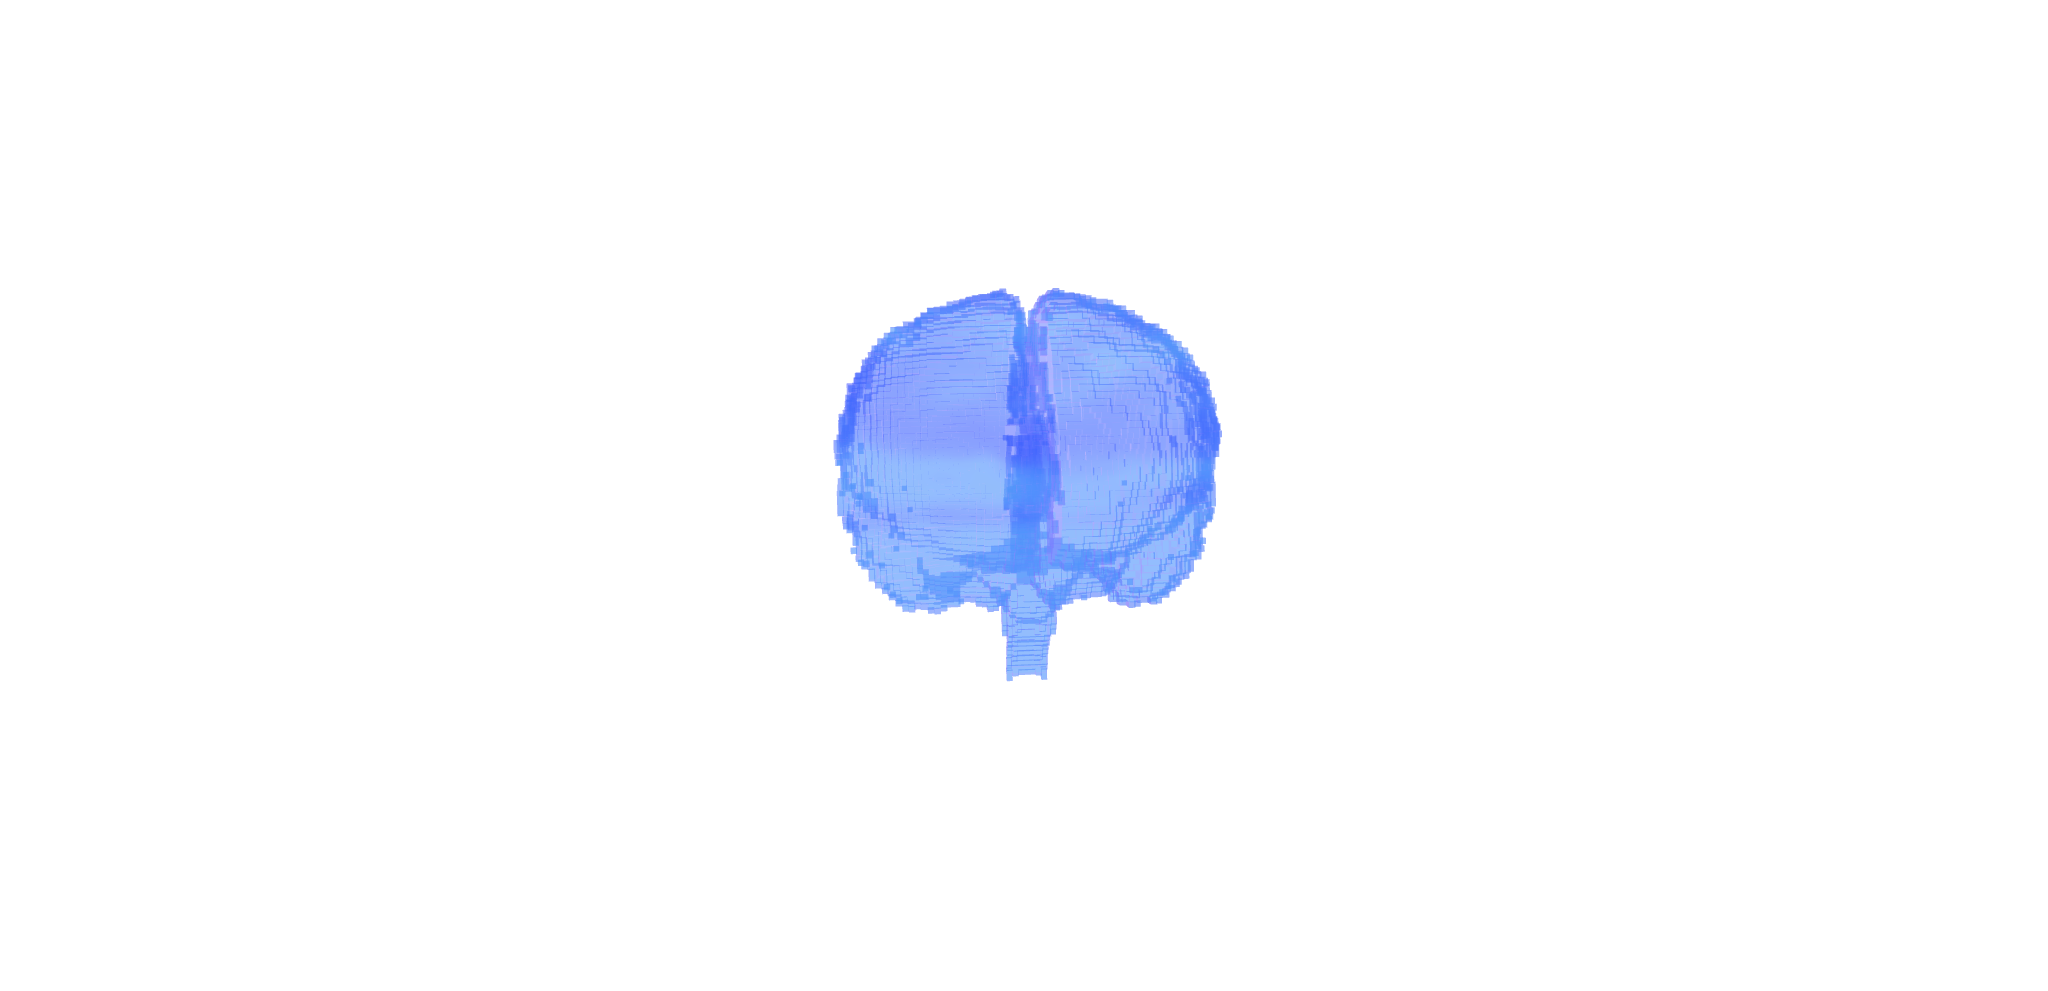
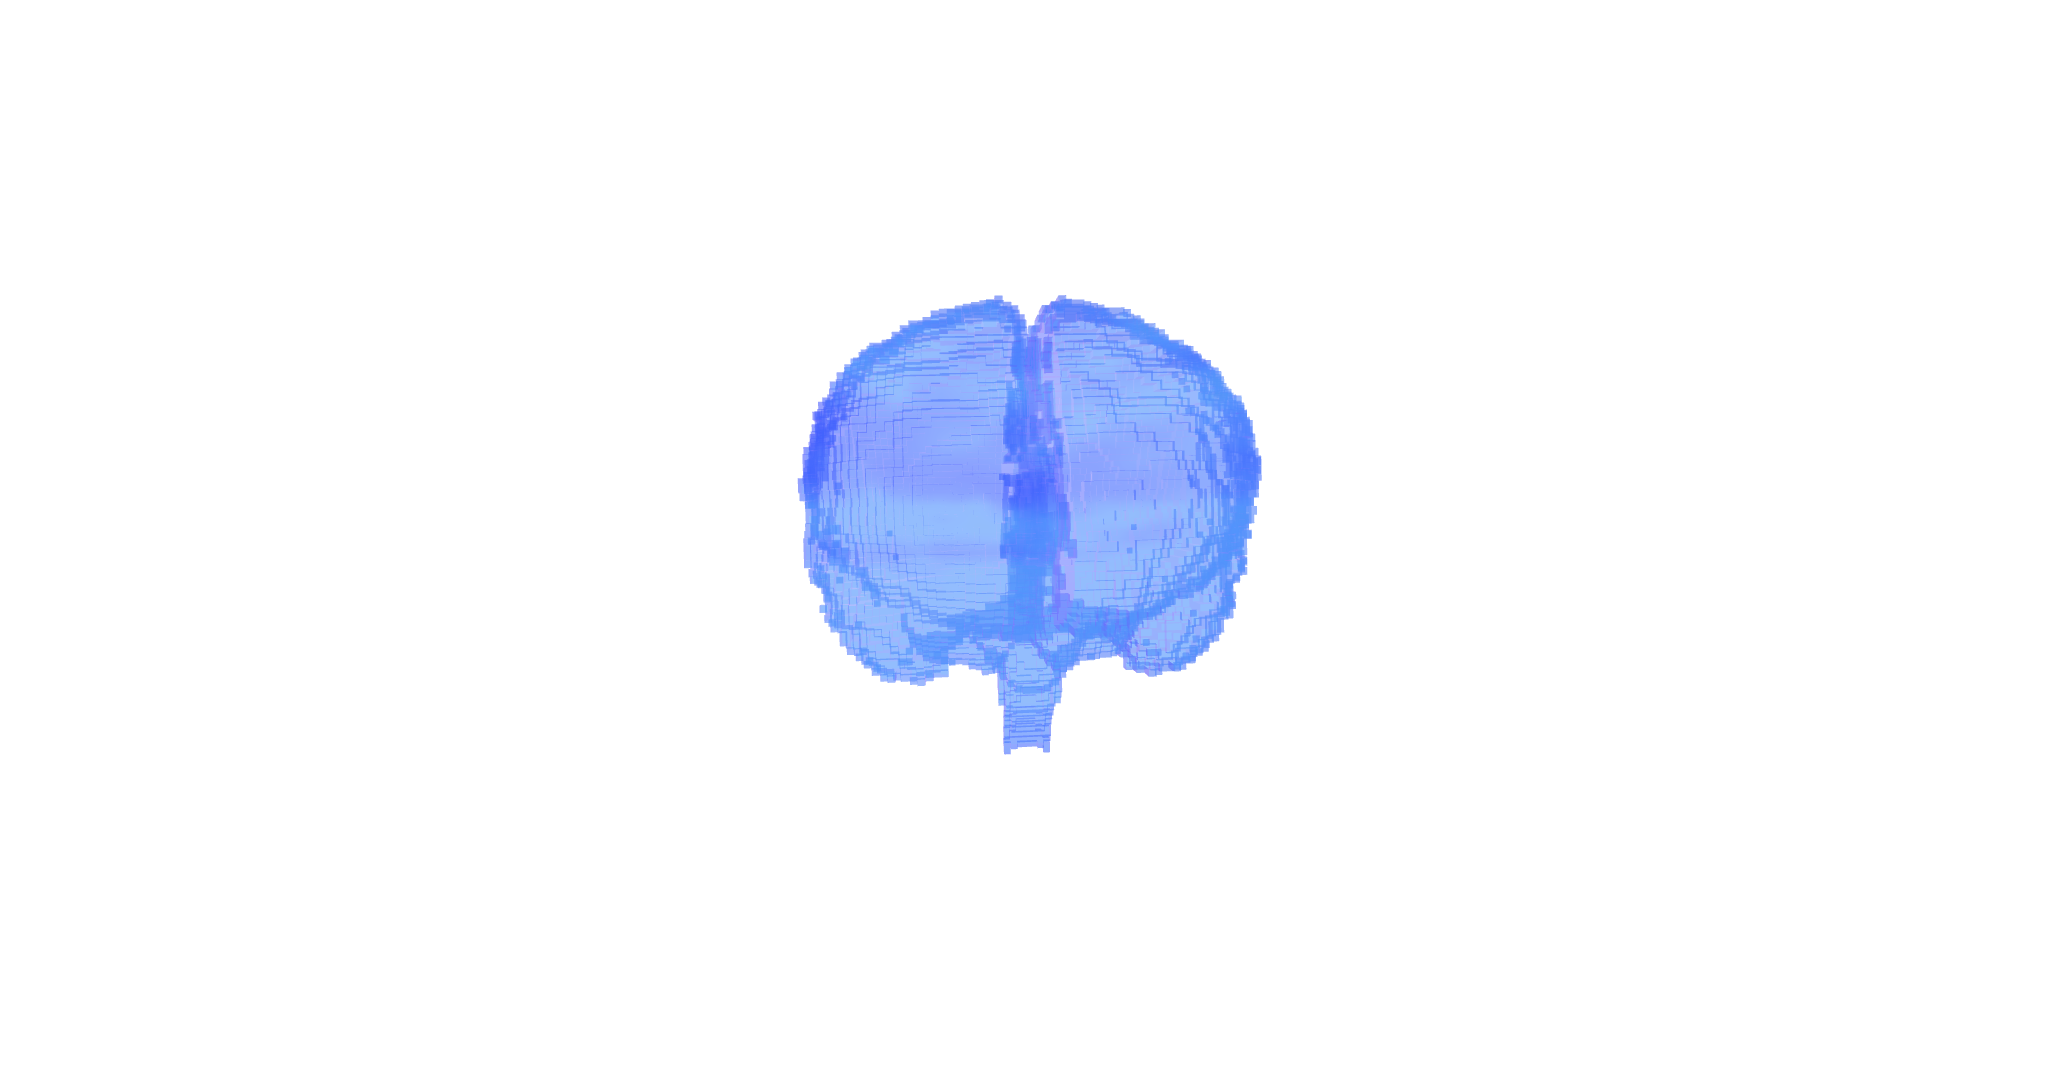
ajustes

Changed region(s): [[0.375, 0.2725, 0.625, 0.6963]]

diff --git a/src/components/HeroSection.vue b/src/components/HeroSection.vue
@@ -41,7 +41,6 @@
                 >
                   {{ textModel[currentModelIndex] }}
                 </div>
-                <!-- Add arrows here -->
                 <button
                   v-if="modelSources.length > 1"
                   class="arrow left-arrow"
@@ -169,14 +168,14 @@
   
   .model-viewer-masked {
     z-index: 10;
-    -webkit-mask-image: radial-gradient(circle, rgba(65, 105, 225, 1) 70%, rgba(0, 0, 0, 0) 90%);
-    mask-image: radial-gradient(circle, rgba(65, 105, 225, 1) 70%, rgba(0, 0, 0, 0) 90%);
+    -webkit-mask-image: radial-gradient(circle, rgba(65, 105, 225, 1) 90%, rgba(0, 0, 0, 0) 100%);
+    mask-image: radial-gradient(circle, rgba(65, 105, 225, 1) 90%, rgba(0, 0, 0, 0) 100%);
     -webkit-mask-size: cover;
     mask-size: cover;
     opacity: 1;
     max-height: 70%;
-    max-width: 100%;
-    top: 10%;
+    max-width: 95%;
+    top:10%;
   }
   
   .main-image {

diff --git a/src/components/ModelCarousel.vue b/src/components/ModelCarousel.vue
@@ -292,7 +292,7 @@ const initThree = () => {
   const height = container.clientHeight
 
   scene = new THREE.Scene()
-  camera = new THREE.PerspectiveCamera(50, width / height, 0.1, 1000)
+  camera = new THREE.PerspectiveCamera(60, width / height, 0.1, 1000)
   renderer = new THREE.WebGLRenderer({
   canvas: canvasRef.value,
   antialias: true,
@@ -601,7 +601,7 @@ const calculateModelTargets = (centerIndex: number, snap: boolean = false) => {
     if (numValidEntries === 0) return;
 
     const radius = props.curveRadius;
-    const mainModelYOffset = 1.0;
+    const mainModelYOffset = 1;
 
     let validIndexCounter = -1;
     const centerModelValidIndex = modelData.slice(0, centerIndex + 1).filter(d => d !== null).length - 1;

diff --git a/src/components/ModelViewer.vue b/src/components/ModelViewer.vue
@@ -220,39 +220,6 @@ defineExpose({ nextModel, prevModel });
    will-change: transform;
 }
 
-.carousel-controls {
-  position: absolute;
-  top: 50%;
-  width: 100%;
-  display: flex;
-  align-items: center;
-  justify-content: center;
-  z-index: 25;
-  pointer-events: none;
-}
-
-.arrow {
-  background-color: rgba(0, 0, 0, 0.5);
-  color: white;
-  border: none;
-  padding: 10px 15px;
-  cursor: pointer;
-  border-radius: 50%;
-  font-size: 1.5em;
-  pointer-events: auto;
-  z-index: 50;
-  position: absolute;
-  top: 50%;
-  transform: translateY(-50%);
-}
-
-.left-arrow {
-  left: -30px; }
-
-.right-arrow {
-  right: -30px;
-}
-
 .carousel-controls .model-info-dialog {
   position: absolute;
   bottom: -130px; 
